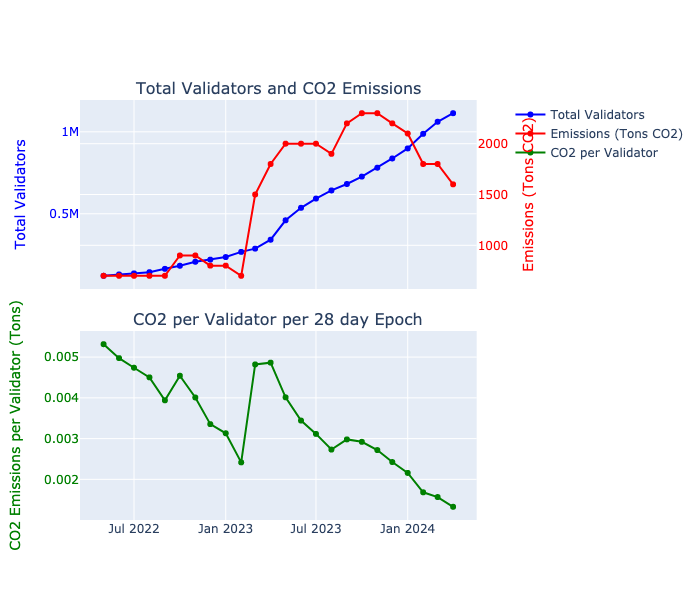
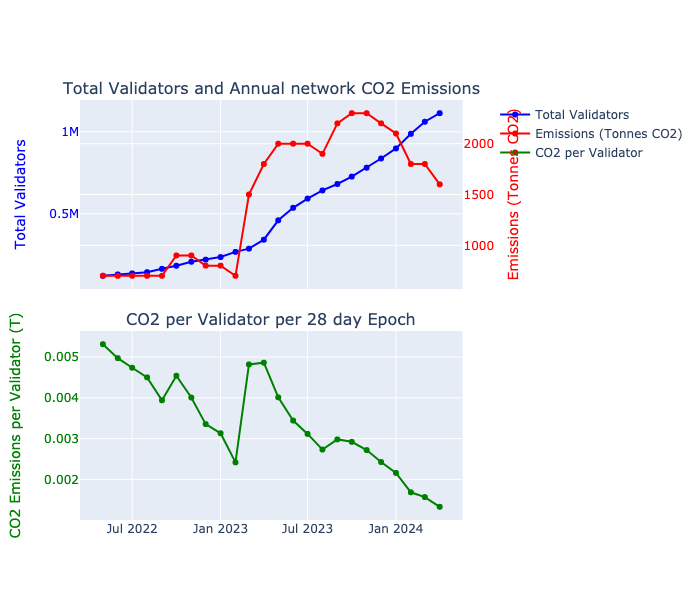
basic figures

diff --git a/carbon-workings/figures/emissions_per_validator.html b/carbon-workings/figures/emissions_per_validator.html
@@ -1,2 +1,2 @@
 <div>                        <script type="text/javascript">window.PlotlyConfig = {MathJaxConfig: 'local'};</script>
-        <script charset="utf-8" src="https://cdn.plot.ly/plotly-2.29.1.min.js"></script>                <div id="03391fda-4cea-4061-af73-da653e41486a" class="plotly-graph-div" style="height:600px; width:100%;"></div>            <script type="text/javascript">                                    window.PLOTLYENV=window.PLOTLYENV || {};                                    if (document.getElementById("03391fda-4cea-4061-af73-da653e41486a")) {                    Plotly.newPlot(                        "03391fda-4cea-4061-af73-da653e41486a",                        [{"line":{"color":"blue"},"mode":"lines+markers","name":"Total Validators","x":["2022-05-01T00:00:00","2022-06-01T00:00:00","2022-07-01T00:00:00","2022-08-01T00:00:00","2022-09-01T00:00:00","2022-10-01T00:00:00","2022-11-01T00:00:00","2022-12-01T00:00:00","2023-01-01T00:00:00","2023-02-01T00:00:00","2023-03-01T00:00:00","2023-04-01T00:00:00","2023-05-01T00:00:00","2023-06-01T00:00:00","2023-07-01T00:00:00","2023-08-01T00:00:00","2023-09-01T00:00:00","2023-10-01T00:00:00","2023-11-01T00:00:00","2023-12-01T00:00:00","2024-01-01T00:00:00","2024-02-01T00:00:00","2024-03-01T00:00:00","2024-04-01T00:00:00"],"y":[121534,129880,136350,143508,164021,182896,207263,220082,235876,267412,287255,341622,460073,536285,592655,642248,681497,726776,780911,837284,898450,987666,1061317,1113489],"type":"scatter","xaxis":"x","yaxis":"y"},{"line":{"color":"red"},"mode":"lines+markers","name":"Emissions (Tons CO2)","x":["2022-05-01T00:00:00","2022-06-01T00:00:00","2022-07-01T00:00:00","2022-08-01T00:00:00","2022-09-01T00:00:00","2022-10-01T00:00:00","2022-11-01T00:00:00","2022-12-01T00:00:00","2023-01-01T00:00:00","2023-02-01T00:00:00","2023-03-01T00:00:00","2023-04-01T00:00:00","2023-05-01T00:00:00","2023-06-01T00:00:00","2023-07-01T00:00:00","2023-08-01T00:00:00","2023-09-01T00:00:00","2023-10-01T00:00:00","2023-11-01T00:00:00","2023-12-01T00:00:00","2024-01-01T00:00:00","2024-02-01T00:00:00","2024-03-01T00:00:00","2024-04-01T00:00:00"],"y":[700.0000000000001,700.0000000000001,700.0000000000001,700.0000000000001,700.0000000000001,900.0,900.0,800.0,800.0,700.0000000000001,1500.0,1800.0,2000.0,2000.0,2000.0,1900.0,2200.0,2300.0,2300.0,2200.0,2100.0,1800.0,1800.0,1600.0],"type":"scatter","xaxis":"x","yaxis":"y2"},{"line":{"color":"green"},"mode":"lines+markers","name":"CO2 per Validator","x":["2022-05-01T00:00:00","2022-06-01T00:00:00","2022-07-01T00:00:00","2022-08-01T00:00:00","2022-09-01T00:00:00","2022-10-01T00:00:00","2022-11-01T00:00:00","2022-12-01T00:00:00","2023-01-01T00:00:00","2023-02-01T00:00:00","2023-03-01T00:00:00","2023-04-01T00:00:00","2023-05-01T00:00:00","2023-06-01T00:00:00","2023-07-01T00:00:00","2023-08-01T00:00:00","2023-09-01T00:00:00","2023-10-01T00:00:00","2023-11-01T00:00:00","2023-12-01T00:00:00","2024-01-01T00:00:00","2024-02-01T00:00:00","2024-03-01T00:00:00","2024-04-01T00:00:00"],"y":[0.005316650864398821,0.004975006514889485,0.00473893543200474,0.004502563244933009,0.003939458033750839,0.004542303991171106,0.004008285274116609,0.003355392710269529,0.0031307192697075516,0.002416323299454947,0.004820161127275015,0.0048636752361922286,0.004012741121852068,0.003442486450588486,0.0031150565609905363,0.0027307927060047734,0.002979865253653693,0.0029212259665659336,0.002718718167725801,0.002425424623866252,0.0021575619549908604,0.001682287799254466,0.001565544000085235,0.0013263921573747714],"type":"scatter","xaxis":"x2","yaxis":"y3"}],                        {"template":{"data":{"histogram2dcontour":[{"type":"histogram2dcontour","colorbar":{"outlinewidth":0,"ticks":""},"colorscale":[[0.0,"#0d0887"],[0.1111111111111111,"#46039f"],[0.2222222222222222,"#7201a8"],[0.3333333333333333,"#9c179e"],[0.4444444444444444,"#bd3786"],[0.5555555555555556,"#d8576b"],[0.6666666666666666,"#ed7953"],[0.7777777777777778,"#fb9f3a"],[0.8888888888888888,"#fdca26"],[1.0,"#f0f921"]]}],"choropleth":[{"type":"choropleth","colorbar":{"outlinewidth":0,"ticks":""}}],"histogram2d":[{"type":"histogram2d","colorbar":{"outlinewidth":0,"ticks":""},"colorscale":[[0.0,"#0d0887"],[0.1111111111111111,"#46039f"],[0.2222222222222222,"#7201a8"],[0.3333333333333333,"#9c179e"],[0.4444444444444444,"#bd3786"],[0.5555555555555556,"#d8576b"],[0.6666666666666666,"#ed7953"],[0.7777777777777778,"#fb9f3a"],[0.8888888888888888,"#fdca26"],[1.0,"#f0f921"]]}],"heatmap":[{"type":"heatmap","colorbar":{"outlinewidth":0,"ticks":""},"colorscale":[[0.0,"#0d0887"],[0.1111111111111111,"#46039f"],[0.2222222222222222,"#7201a8"],[0.3333333333333333,"#9c179e"],[0.4444444444444444,"#bd3786"],[0.5555555555555556,"#d8576b"],[0.6666666666666666,"#ed7953"],[0.7777777777777778,"#fb9f3a"],[0.8888888888888888,"#fdca26"],[1.0,"#f0f921"]]}],"heatmapgl":[{"type":"heatmapgl","colorbar":{"outlinewidth":0,"ticks":""},"colorscale":[[0.0,"#0d0887"],[0.1111111111111111,"#46039f"],[0.2222222222222222,"#7201a8"],[0.3333333333333333,"#9c179e"],[0.4444444444444444,"#bd3786"],[0.5555555555555556,"#d8576b"],[0.6666666666666666,"#ed7953"],[0.7777777777777778,"#fb9f3a"],[0.8888888888888888,"#fdca26"],[1.0,"#f0f921"]]}],"contourcarpet":[{"type":"contourcarpet","colorbar":{"outlinewidth":0,"ticks":""}}],"contour":[{"type":"contour","colorbar":{"outlinewidth":0,"ticks":""},"colorscale":[[0.0,"#0d0887"],[0.1111111111111111,"#46039f"],[0.2222222222222222,"#7201a8"],[0.3333333333333333,"#9c179e"],[0.4444444444444444,"#bd3786"],[0.5555555555555556,"#d8576b"],[0.6666666666666666,"#ed7953"],[0.7777777777777778,"#fb9f3a"],[0.8888888888888888,"#fdca26"],[1.0,"#f0f921"]]}],"surface":[{"type":"surface","colorbar":{"outlinewidth":0,"ticks":""},"colorscale":[[0.0,"#0d0887"],[0.1111111111111111,"#46039f"],[0.2222222222222222,"#7201a8"],[0.3333333333333333,"#9c179e"],[0.4444444444444444,"#bd3786"],[0.5555555555555556,"#d8576b"],[0.6666666666666666,"#ed7953"],[0.7777777777777778,"#fb9f3a"],[0.8888888888888888,"#fdca26"],[1.0,"#f0f921"]]}],"mesh3d":[{"type":"mesh3d","colorbar":{"outlinewidth":0,"ticks":""}}],"scatter":[{"fillpattern":{"fillmode":"overlay","size":10,"solidity":0.2},"type":"scatter"}],"parcoords":[{"type":"parcoords","line":{"colorbar":{"outlinewidth":0,"ticks":""}}}],"scatterpolargl":[{"type":"scatterpolargl","marker":{"colorbar":{"outlinewidth":0,"ticks":""}}}],"bar":[{"error_x":{"color":"#2a3f5f"},"error_y":{"color":"#2a3f5f"},"marker":{"line":{"color":"#E5ECF6","width":0.5},"pattern":{"fillmode":"overlay","size":10,"solidity":0.2}},"type":"bar"}],"scattergeo":[{"type":"scattergeo","marker":{"colorbar":{"outlinewidth":0,"ticks":""}}}],"scatterpolar":[{"type":"scatterpolar","marker":{"colorbar":{"outlinewidth":0,"ticks":""}}}],"histogram":[{"marker":{"pattern":{"fillmode":"overlay","size":10,"solidity":0.2}},"type":"histogram"}],"scattergl":[{"type":"scattergl","marker":{"colorbar":{"outlinewidth":0,"ticks":""}}}],"scatter3d":[{"type":"scatter3d","line":{"colorbar":{"outlinewidth":0,"ticks":""}},"marker":{"colorbar":{"outlinewidth":0,"ticks":""}}}],"scattermapbox":[{"type":"scattermapbox","marker":{"colorbar":{"outlinewidth":0,"ticks":""}}}],"scatterternary":[{"type":"scatterternary","marker":{"colorbar":{"outlinewidth":0,"ticks":""}}}],"scattercarpet":[{"type":"scattercarpet","marker":{"colorbar":{"outlinewidth":0,"ticks":""}}}],"carpet":[{"aaxis":{"endlinecolor":"#2a3f5f","gridcolor":"white","linecolor":"white","minorgridcolor":"white","startlinecolor":"#2a3f5f"},"baxis":{"endlinecolor":"#2a3f5f","gridcolor":"white","linecolor":"white","minorgridcolor":"white","startlinecolor":"#2a3f5f"},"type":"carpet"}],"table":[{"cells":{"fill":{"color":"#EBF0F8"},"line":{"color":"white"}},"header":{"fill":{"color":"#C8D4E3"},"line":{"color":"white"}},"type":"table"}],"barpolar":[{"marker":{"line":{"color":"#E5ECF6","width":0.5},"pattern":{"fillmode":"overlay","size":10,"solidity":0.2}},"type":"barpolar"}],"pie":[{"automargin":true,"type":"pie"}]},"layout":{"autotypenumbers":"strict","colorway":["#636efa","#EF553B","#00cc96","#ab63fa","#FFA15A","#19d3f3","#FF6692","#B6E880","#FF97FF","#FECB52"],"font":{"color":"#2a3f5f"},"hovermode":"closest","hoverlabel":{"align":"left"},"paper_bgcolor":"white","plot_bgcolor":"#E5ECF6","polar":{"bgcolor":"#E5ECF6","angularaxis":{"gridcolor":"white","linecolor":"white","ticks":""},"radialaxis":{"gridcolor":"white","linecolor":"white","ticks":""}},"ternary":{"bgcolor":"#E5ECF6","aaxis":{"gridcolor":"white","linecolor":"white","ticks":""},"baxis":{"gridcolor":"white","linecolor":"white","ticks":""},"caxis":{"gridcolor":"white","linecolor":"white","ticks":""}},"coloraxis":{"colorbar":{"outlinewidth":0,"ticks":""}},"colorscale":{"sequential":[[0.0,"#0d0887"],[0.1111111111111111,"#46039f"],[0.2222222222222222,"#7201a8"],[0.3333333333333333,"#9c179e"],[0.4444444444444444,"#bd3786"],[0.5555555555555556,"#d8576b"],[0.6666666666666666,"#ed7953"],[0.7777777777777778,"#fb9f3a"],[0.8888888888888888,"#fdca26"],[1.0,"#f0f921"]],"sequentialminus":[[0.0,"#0d0887"],[0.1111111111111111,"#46039f"],[0.2222222222222222,"#7201a8"],[0.3333333333333333,"#9c179e"],[0.4444444444444444,"#bd3786"],[0.5555555555555556,"#d8576b"],[0.6666666666666666,"#ed7953"],[0.7777777777777778,"#fb9f3a"],[0.8888888888888888,"#fdca26"],[1.0,"#f0f921"]],"diverging":[[0,"#8e0152"],[0.1,"#c51b7d"],[0.2,"#de77ae"],[0.3,"#f1b6da"],[0.4,"#fde0ef"],[0.5,"#f7f7f7"],[0.6,"#e6f5d0"],[0.7,"#b8e186"],[0.8,"#7fbc41"],[0.9,"#4d9221"],[1,"#276419"]]},"xaxis":{"gridcolor":"white","linecolor":"white","ticks":"","title":{"standoff":15},"zerolinecolor":"white","automargin":true,"zerolinewidth":2},"yaxis":{"gridcolor":"white","linecolor":"white","ticks":"","title":{"standoff":15},"zerolinecolor":"white","automargin":true,"zerolinewidth":2},"scene":{"xaxis":{"backgroundcolor":"#E5ECF6","gridcolor":"white","linecolor":"white","showbackground":true,"ticks":"","zerolinecolor":"white","gridwidth":2},"yaxis":{"backgroundcolor":"#E5ECF6","gridcolor":"white","linecolor":"white","showbackground":true,"ticks":"","zerolinecolor":"white","gridwidth":2},"zaxis":{"backgroundcolor":"#E5ECF6","gridcolor":"white","linecolor":"white","showbackground":true,"ticks":"","zerolinecolor":"white","gridwidth":2}},"shapedefaults":{"line":{"color":"#2a3f5f"}},"annotationdefaults":{"arrowcolor":"#2a3f5f","arrowhead":0,"arrowwidth":1},"geo":{"bgcolor":"white","landcolor":"#E5ECF6","subunitcolor":"white","showland":true,"showlakes":true,"lakecolor":"white"},"title":{"x":0.05},"mapbox":{"style":"light"}}},"xaxis":{"anchor":"y","domain":[0.0,0.94],"matches":"x2","showticklabels":false},"yaxis":{"anchor":"x","domain":[0.55,1.0],"title":{"font":{"color":"blue"},"text":"Total Validators"},"tickfont":{"color":"blue"}},"yaxis2":{"anchor":"x","overlaying":"y","side":"right","title":{"font":{"color":"red"},"text":"Emissions (Tons CO2)"},"tickfont":{"color":"red"}},"xaxis2":{"anchor":"y3","domain":[0.0,0.94]},"yaxis3":{"anchor":"x2","domain":[0.0,0.45],"title":{"font":{"color":"green"},"text":"CO2 Emissions per Validator (Tons)"},"tickfont":{"color":"green"}},"annotations":[{"font":{"size":16},"showarrow":false,"text":"Total Validators and CO2 Emissions","x":0.47,"xanchor":"center","xref":"paper","y":1.0,"yanchor":"bottom","yref":"paper"},{"font":{"size":16},"showarrow":false,"text":"CO2 per Validator per 28 day Epoch","x":0.47,"xanchor":"center","xref":"paper","y":0.45,"yanchor":"bottom","yref":"paper"}],"height":600,"showlegend":true},                        {"responsive": true}                    )                };                            </script>        </div>
+        <script charset="utf-8" src="https://cdn.plot.ly/plotly-2.29.1.min.js"></script>                <div id="6b5f8e2d-c688-48b8-8995-35c0c170c0ab" class="plotly-graph-div" style="height:600px; width:100%;"></div>            <script type="text/javascript">                                    window.PLOTLYENV=window.PLOTLYENV || {};                                    if (document.getElementById("6b5f8e2d-c688-48b8-8995-35c0c170c0ab")) {                    Plotly.newPlot(                        "6b5f8e2d-c688-48b8-8995-35c0c170c0ab",                        [{"line":{"color":"blue"},"mode":"lines+markers","name":"Total Validators","x":["2022-05-01T00:00:00","2022-06-01T00:00:00","2022-07-01T00:00:00","2022-08-01T00:00:00","2022-09-01T00:00:00","2022-10-01T00:00:00","2022-11-01T00:00:00","2022-12-01T00:00:00","2023-01-01T00:00:00","2023-02-01T00:00:00","2023-03-01T00:00:00","2023-04-01T00:00:00","2023-05-01T00:00:00","2023-06-01T00:00:00","2023-07-01T00:00:00","2023-08-01T00:00:00","2023-09-01T00:00:00","2023-10-01T00:00:00","2023-11-01T00:00:00","2023-12-01T00:00:00","2024-01-01T00:00:00","2024-02-01T00:00:00","2024-03-01T00:00:00","2024-04-01T00:00:00"],"y":[121534,129880,136350,143508,164021,182896,207263,220082,235876,267412,287255,341622,460073,536285,592655,642248,681497,726776,780911,837284,898450,987666,1061317,1113489],"type":"scatter","xaxis":"x","yaxis":"y"},{"line":{"color":"red"},"mode":"lines+markers","name":"Emissions (Tonnes CO2)","x":["2022-05-01T00:00:00","2022-06-01T00:00:00","2022-07-01T00:00:00","2022-08-01T00:00:00","2022-09-01T00:00:00","2022-10-01T00:00:00","2022-11-01T00:00:00","2022-12-01T00:00:00","2023-01-01T00:00:00","2023-02-01T00:00:00","2023-03-01T00:00:00","2023-04-01T00:00:00","2023-05-01T00:00:00","2023-06-01T00:00:00","2023-07-01T00:00:00","2023-08-01T00:00:00","2023-09-01T00:00:00","2023-10-01T00:00:00","2023-11-01T00:00:00","2023-12-01T00:00:00","2024-01-01T00:00:00","2024-02-01T00:00:00","2024-03-01T00:00:00","2024-04-01T00:00:00"],"y":[700.0000000000001,700.0000000000001,700.0000000000001,700.0000000000001,700.0000000000001,900.0,900.0,800.0,800.0,700.0000000000001,1500.0,1800.0,2000.0,2000.0,2000.0,1900.0,2200.0,2300.0,2300.0,2200.0,2100.0,1800.0,1800.0,1600.0],"type":"scatter","xaxis":"x","yaxis":"y2"},{"line":{"color":"green"},"mode":"lines+markers","name":"CO2 per Validator","x":["2022-05-01T00:00:00","2022-06-01T00:00:00","2022-07-01T00:00:00","2022-08-01T00:00:00","2022-09-01T00:00:00","2022-10-01T00:00:00","2022-11-01T00:00:00","2022-12-01T00:00:00","2023-01-01T00:00:00","2023-02-01T00:00:00","2023-03-01T00:00:00","2023-04-01T00:00:00","2023-05-01T00:00:00","2023-06-01T00:00:00","2023-07-01T00:00:00","2023-08-01T00:00:00","2023-09-01T00:00:00","2023-10-01T00:00:00","2023-11-01T00:00:00","2023-12-01T00:00:00","2024-01-01T00:00:00","2024-02-01T00:00:00","2024-03-01T00:00:00","2024-04-01T00:00:00"],"y":[0.005316650864398821,0.004975006514889485,0.00473893543200474,0.004502563244933009,0.003939458033750839,0.004542303991171106,0.004008285274116609,0.003355392710269529,0.0031307192697075516,0.002416323299454947,0.004820161127275015,0.0048636752361922286,0.004012741121852068,0.003442486450588486,0.0031150565609905363,0.0027307927060047734,0.002979865253653693,0.0029212259665659336,0.002718718167725801,0.002425424623866252,0.0021575619549908604,0.001682287799254466,0.001565544000085235,0.0013263921573747714],"type":"scatter","xaxis":"x2","yaxis":"y3"}],                        {"template":{"data":{"histogram2dcontour":[{"type":"histogram2dcontour","colorbar":{"outlinewidth":0,"ticks":""},"colorscale":[[0.0,"#0d0887"],[0.1111111111111111,"#46039f"],[0.2222222222222222,"#7201a8"],[0.3333333333333333,"#9c179e"],[0.4444444444444444,"#bd3786"],[0.5555555555555556,"#d8576b"],[0.6666666666666666,"#ed7953"],[0.7777777777777778,"#fb9f3a"],[0.8888888888888888,"#fdca26"],[1.0,"#f0f921"]]}],"choropleth":[{"type":"choropleth","colorbar":{"outlinewidth":0,"ticks":""}}],"histogram2d":[{"type":"histogram2d","colorbar":{"outlinewidth":0,"ticks":""},"colorscale":[[0.0,"#0d0887"],[0.1111111111111111,"#46039f"],[0.2222222222222222,"#7201a8"],[0.3333333333333333,"#9c179e"],[0.4444444444444444,"#bd3786"],[0.5555555555555556,"#d8576b"],[0.6666666666666666,"#ed7953"],[0.7777777777777778,"#fb9f3a"],[0.8888888888888888,"#fdca26"],[1.0,"#f0f921"]]}],"heatmap":[{"type":"heatmap","colorbar":{"outlinewidth":0,"ticks":""},"colorscale":[[0.0,"#0d0887"],[0.1111111111111111,"#46039f"],[0.2222222222222222,"#7201a8"],[0.3333333333333333,"#9c179e"],[0.4444444444444444,"#bd3786"],[0.5555555555555556,"#d8576b"],[0.6666666666666666,"#ed7953"],[0.7777777777777778,"#fb9f3a"],[0.8888888888888888,"#fdca26"],[1.0,"#f0f921"]]}],"heatmapgl":[{"type":"heatmapgl","colorbar":{"outlinewidth":0,"ticks":""},"colorscale":[[0.0,"#0d0887"],[0.1111111111111111,"#46039f"],[0.2222222222222222,"#7201a8"],[0.3333333333333333,"#9c179e"],[0.4444444444444444,"#bd3786"],[0.5555555555555556,"#d8576b"],[0.6666666666666666,"#ed7953"],[0.7777777777777778,"#fb9f3a"],[0.8888888888888888,"#fdca26"],[1.0,"#f0f921"]]}],"contourcarpet":[{"type":"contourcarpet","colorbar":{"outlinewidth":0,"ticks":""}}],"contour":[{"type":"contour","colorbar":{"outlinewidth":0,"ticks":""},"colorscale":[[0.0,"#0d0887"],[0.1111111111111111,"#46039f"],[0.2222222222222222,"#7201a8"],[0.3333333333333333,"#9c179e"],[0.4444444444444444,"#bd3786"],[0.5555555555555556,"#d8576b"],[0.6666666666666666,"#ed7953"],[0.7777777777777778,"#fb9f3a"],[0.8888888888888888,"#fdca26"],[1.0,"#f0f921"]]}],"surface":[{"type":"surface","colorbar":{"outlinewidth":0,"ticks":""},"colorscale":[[0.0,"#0d0887"],[0.1111111111111111,"#46039f"],[0.2222222222222222,"#7201a8"],[0.3333333333333333,"#9c179e"],[0.4444444444444444,"#bd3786"],[0.5555555555555556,"#d8576b"],[0.6666666666666666,"#ed7953"],[0.7777777777777778,"#fb9f3a"],[0.8888888888888888,"#fdca26"],[1.0,"#f0f921"]]}],"mesh3d":[{"type":"mesh3d","colorbar":{"outlinewidth":0,"ticks":""}}],"scatter":[{"fillpattern":{"fillmode":"overlay","size":10,"solidity":0.2},"type":"scatter"}],"parcoords":[{"type":"parcoords","line":{"colorbar":{"outlinewidth":0,"ticks":""}}}],"scatterpolargl":[{"type":"scatterpolargl","marker":{"colorbar":{"outlinewidth":0,"ticks":""}}}],"bar":[{"error_x":{"color":"#2a3f5f"},"error_y":{"color":"#2a3f5f"},"marker":{"line":{"color":"#E5ECF6","width":0.5},"pattern":{"fillmode":"overlay","size":10,"solidity":0.2}},"type":"bar"}],"scattergeo":[{"type":"scattergeo","marker":{"colorbar":{"outlinewidth":0,"ticks":""}}}],"scatterpolar":[{"type":"scatterpolar","marker":{"colorbar":{"outlinewidth":0,"ticks":""}}}],"histogram":[{"marker":{"pattern":{"fillmode":"overlay","size":10,"solidity":0.2}},"type":"histogram"}],"scattergl":[{"type":"scattergl","marker":{"colorbar":{"outlinewidth":0,"ticks":""}}}],"scatter3d":[{"type":"scatter3d","line":{"colorbar":{"outlinewidth":0,"ticks":""}},"marker":{"colorbar":{"outlinewidth":0,"ticks":""}}}],"scattermapbox":[{"type":"scattermapbox","marker":{"colorbar":{"outlinewidth":0,"ticks":""}}}],"scatterternary":[{"type":"scatterternary","marker":{"colorbar":{"outlinewidth":0,"ticks":""}}}],"scattercarpet":[{"type":"scattercarpet","marker":{"colorbar":{"outlinewidth":0,"ticks":""}}}],"carpet":[{"aaxis":{"endlinecolor":"#2a3f5f","gridcolor":"white","linecolor":"white","minorgridcolor":"white","startlinecolor":"#2a3f5f"},"baxis":{"endlinecolor":"#2a3f5f","gridcolor":"white","linecolor":"white","minorgridcolor":"white","startlinecolor":"#2a3f5f"},"type":"carpet"}],"table":[{"cells":{"fill":{"color":"#EBF0F8"},"line":{"color":"white"}},"header":{"fill":{"color":"#C8D4E3"},"line":{"color":"white"}},"type":"table"}],"barpolar":[{"marker":{"line":{"color":"#E5ECF6","width":0.5},"pattern":{"fillmode":"overlay","size":10,"solidity":0.2}},"type":"barpolar"}],"pie":[{"automargin":true,"type":"pie"}]},"layout":{"autotypenumbers":"strict","colorway":["#636efa","#EF553B","#00cc96","#ab63fa","#FFA15A","#19d3f3","#FF6692","#B6E880","#FF97FF","#FECB52"],"font":{"color":"#2a3f5f"},"hovermode":"closest","hoverlabel":{"align":"left"},"paper_bgcolor":"white","plot_bgcolor":"#E5ECF6","polar":{"bgcolor":"#E5ECF6","angularaxis":{"gridcolor":"white","linecolor":"white","ticks":""},"radialaxis":{"gridcolor":"white","linecolor":"white","ticks":""}},"ternary":{"bgcolor":"#E5ECF6","aaxis":{"gridcolor":"white","linecolor":"white","ticks":""},"baxis":{"gridcolor":"white","linecolor":"white","ticks":""},"caxis":{"gridcolor":"white","linecolor":"white","ticks":""}},"coloraxis":{"colorbar":{"outlinewidth":0,"ticks":""}},"colorscale":{"sequential":[[0.0,"#0d0887"],[0.1111111111111111,"#46039f"],[0.2222222222222222,"#7201a8"],[0.3333333333333333,"#9c179e"],[0.4444444444444444,"#bd3786"],[0.5555555555555556,"#d8576b"],[0.6666666666666666,"#ed7953"],[0.7777777777777778,"#fb9f3a"],[0.8888888888888888,"#fdca26"],[1.0,"#f0f921"]],"sequentialminus":[[0.0,"#0d0887"],[0.1111111111111111,"#46039f"],[0.2222222222222222,"#7201a8"],[0.3333333333333333,"#9c179e"],[0.4444444444444444,"#bd3786"],[0.5555555555555556,"#d8576b"],[0.6666666666666666,"#ed7953"],[0.7777777777777778,"#fb9f3a"],[0.8888888888888888,"#fdca26"],[1.0,"#f0f921"]],"diverging":[[0,"#8e0152"],[0.1,"#c51b7d"],[0.2,"#de77ae"],[0.3,"#f1b6da"],[0.4,"#fde0ef"],[0.5,"#f7f7f7"],[0.6,"#e6f5d0"],[0.7,"#b8e186"],[0.8,"#7fbc41"],[0.9,"#4d9221"],[1,"#276419"]]},"xaxis":{"gridcolor":"white","linecolor":"white","ticks":"","title":{"standoff":15},"zerolinecolor":"white","automargin":true,"zerolinewidth":2},"yaxis":{"gridcolor":"white","linecolor":"white","ticks":"","title":{"standoff":15},"zerolinecolor":"white","automargin":true,"zerolinewidth":2},"scene":{"xaxis":{"backgroundcolor":"#E5ECF6","gridcolor":"white","linecolor":"white","showbackground":true,"ticks":"","zerolinecolor":"white","gridwidth":2},"yaxis":{"backgroundcolor":"#E5ECF6","gridcolor":"white","linecolor":"white","showbackground":true,"ticks":"","zerolinecolor":"white","gridwidth":2},"zaxis":{"backgroundcolor":"#E5ECF6","gridcolor":"white","linecolor":"white","showbackground":true,"ticks":"","zerolinecolor":"white","gridwidth":2}},"shapedefaults":{"line":{"color":"#2a3f5f"}},"annotationdefaults":{"arrowcolor":"#2a3f5f","arrowhead":0,"arrowwidth":1},"geo":{"bgcolor":"white","landcolor":"#E5ECF6","subunitcolor":"white","showland":true,"showlakes":true,"lakecolor":"white"},"title":{"x":0.05},"mapbox":{"style":"light"}}},"xaxis":{"anchor":"y","domain":[0.0,0.94],"matches":"x2","showticklabels":false},"yaxis":{"anchor":"x","domain":[0.55,1.0],"title":{"font":{"color":"blue"},"text":"Total Validators"},"tickfont":{"color":"blue"}},"yaxis2":{"anchor":"x","overlaying":"y","side":"right","title":{"font":{"color":"red"},"text":"Emissions (Tonnes CO2)"},"tickfont":{"color":"red"}},"xaxis2":{"anchor":"y3","domain":[0.0,0.94]},"yaxis3":{"anchor":"x2","domain":[0.0,0.45],"title":{"font":{"color":"green"},"text":"CO2 Emissions per Validator (T)"},"tickfont":{"color":"green"}},"annotations":[{"font":{"size":16},"showarrow":false,"text":"Total Validators and Annual network CO2 Emissions","x":0.47,"xanchor":"center","xref":"paper","y":1.0,"yanchor":"bottom","yref":"paper"},{"font":{"size":16},"showarrow":false,"text":"CO2 per Validator per 28 day Epoch","x":0.47,"xanchor":"center","xref":"paper","y":0.45,"yanchor":"bottom","yref":"paper"}],"height":600,"showlegend":true},                        {"responsive": true}                    )                };                            </script>        </div>

diff --git a/carbon-workings/eth_carbon_statistics.py b/carbon-workings/eth_carbon_statistics.py
@@ -172,7 +172,7 @@ fig.add_trace(
     go.Scatter(
         x=df.index,
         y=df["emissions_Tco2"],
-        name="Emissions (Tons CO2)",
+        name="Emissions (Tonnes CO2)",
         mode="lines+markers",
         line=dict(color="red"),
     ),
@@ -204,7 +204,7 @@ fig.update_yaxes(
     titlefont=dict(color="blue"),
 )
 fig.update_yaxes(
-    title_text="Emissions (Tons CO2)",
+    title_text="Emissions (Tonnes CO2)",
     secondary_y=True,
     row=1,
     col=1,
